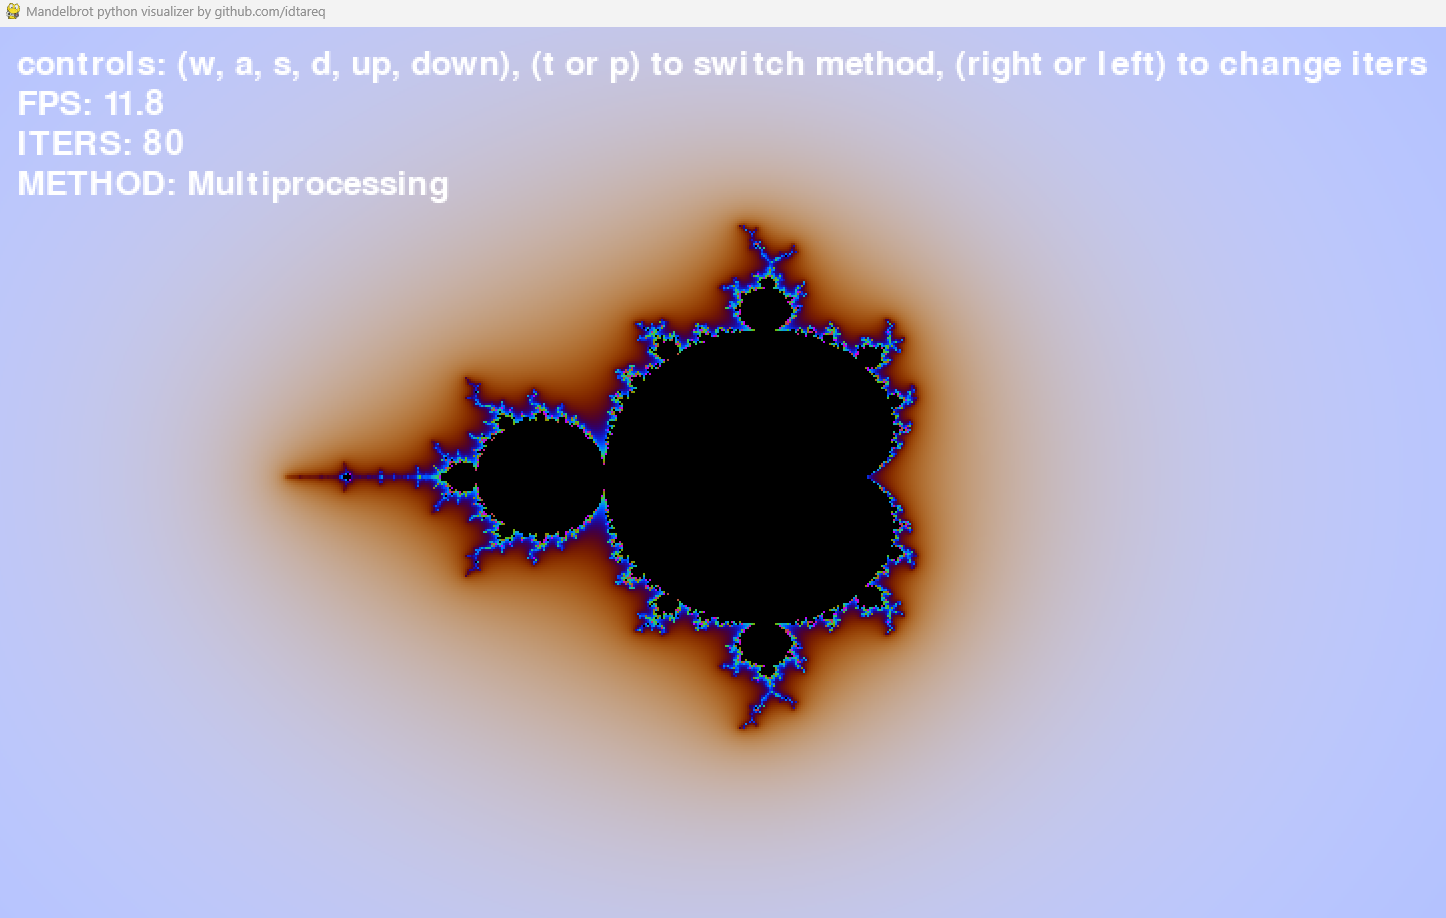
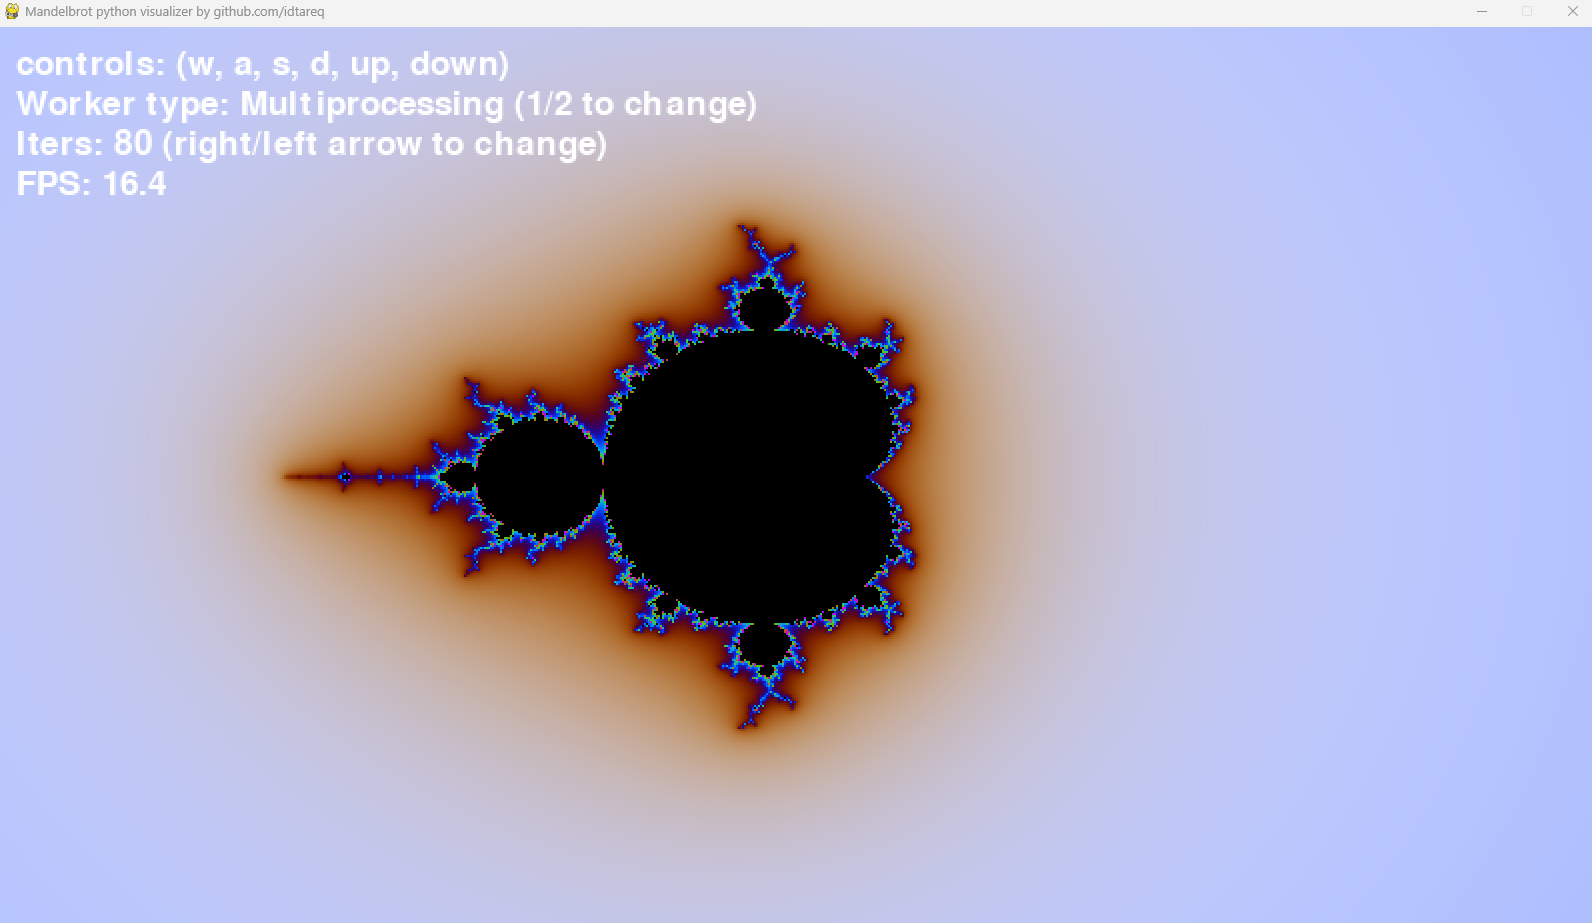
update

Changed region(s): [[0.1556, 0.183, 0.778, 0.854], [0.0, 0.061, 0.9959, 0.2135], [0.0, 0.0, 0.2178, 0.0305]]

diff --git a/README.md b/README.md
@@ -19,11 +19,11 @@ Note: you may need to compile `calculate_mandelbrot.pyx`, run `python setup.py b
 
 ## Controls
 
+`(w, a, s, d)`: Move the scene  
 `up`: Zoom in  
 `down`: Zoom out  
-`(w, a, s, d)`: Move the scene  
 `(right or left)`: Increase/decrease the number of iterations  
-`t`: switch to Multithreading  
-`p`: switch to Multiprocessing  
+`1`: switch to Multiprocessing  
+`2`: switch to Multithreading  
 
 ![screenshot](screenshot.png)
